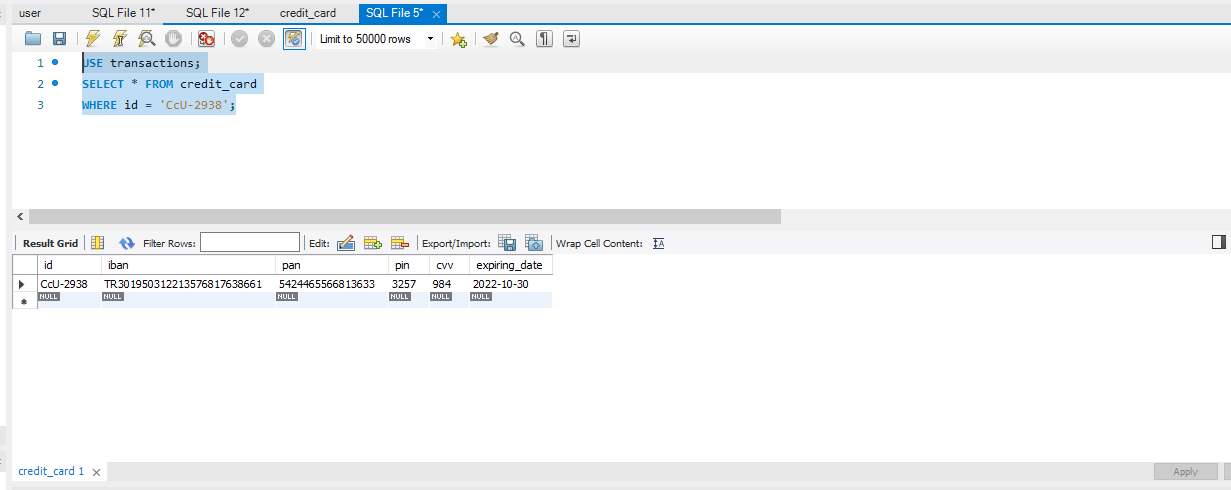
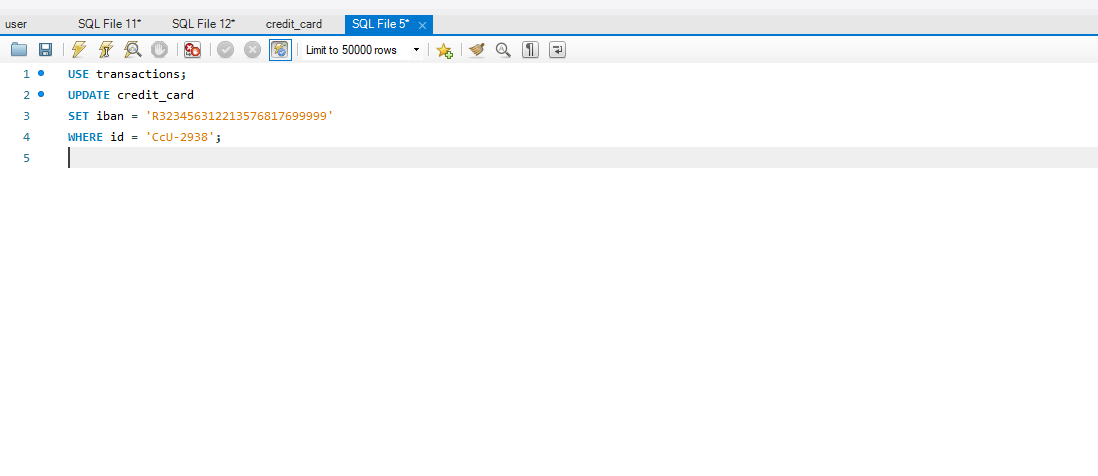
martes03

diff --git a/sprint3/sprint3.md b/sprint3/sprint3.md
@@ -76,7 +76,9 @@ A continuación se presenta un diagrama que ilustra la relación entre las tabla
 ![Diagrama del Esquema](https://github.com/ciberzerone/it_Academy_Data_Scientist/blob/main/sprint3/imagen/eje01ER.PNG)
 
 
+
 <hr>
+
 
 # Ejercicio 2:  Actualizar número de cuenta del usuario con ID CcU-2938. 
 
@@ -92,31 +94,17 @@ WHERE id = 'CcU-2938';
 
 
 ### Imagen de Mostrar ID CcU-2938:
-![Listado de los países que están realizando compra](https://github.com/ciberzerone/it_Academy_Data_Scientist/blob/main/sprint2/imagen/ej02_consulta_pais.PNG)
+![Mostrar ID CcU-2938](https://github.com/ciberzerone/it_Academy_Data_Scientist/blob/main/sprint3/imagen/eje02_actualizar01.PNG)
 
-
+### Sql Actualizacion del campo Iban del id CcU-2938
 
 ```sql
-CREATE INDEX idx_credit_card_iban ON credit_card(iban);
-CREATE INDEX idx_credit_card_pan ON credit_card(pan);
+USE transactions;
+UPDATE credit_card
+SET iban = 'R323456312213576817699999'
+WHERE id = 'CcU-2938';
 ```
 
-### Imagen de  Listado de los países que están realizando compras:
-![Listado de los países que están realizando compra](https://github.com/ciberzerone/it_Academy_Data_Scientist/blob/main/sprint2/imagen/ej02_consulta_pais.PNG)
-
-
-
-### Ejecutar la consulta de eliminación
-```sql
-DELETE FROM company
-WHERE id NOT IN (
-    SELECT DISTINCT company_id
-    FROM transaction
-);
-```
-### Imagen de aplicacion de sql con el registro insertado:
-![Listado empresas que carecen de transacciones registradas](https://github.com/ciberzerone/it_Academy_Data_Scientist/blob/main/sprint2/imagen/ej03_consulta_delete04.PNG)
-<hr>
-
-
+### Imagen de sql de la Actualizacion del campo Iban del id CcU-2938:
+![sql de la Actualizacion del campo Iban del id CcU-2938](https://github.com/ciberzerone/it_Academy_Data_Scientist/blob/main/sprint3/imagen/eje02_actualizar02.PNG)
 
